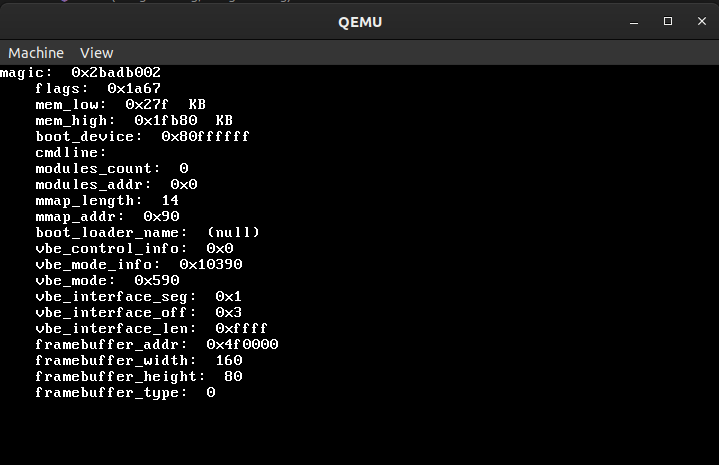
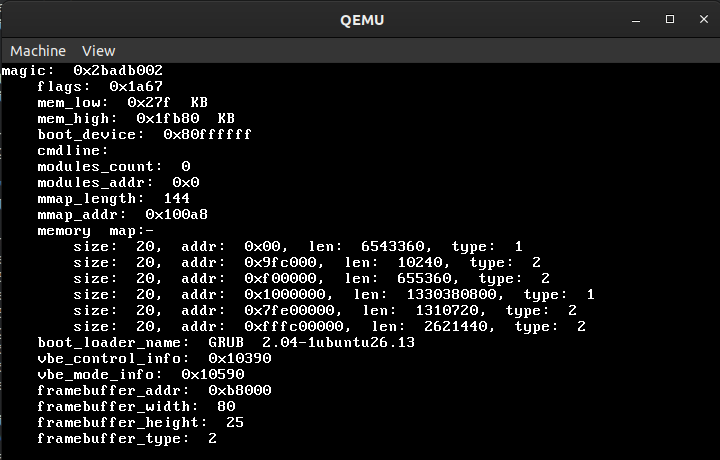
modified multiboot structure and added printing memory map

diff --git a/NEW KERNEL/Memory Info/src/kernel.c b/NEW KERNEL/Memory Info/src/kernel.c
@@ -5,6 +5,8 @@
 
 void kmain(unsigned long magic, unsigned long addr) {
     MULTIBOOT_INFO *mboot_info;
+    uint32 i;
+
     console_init(COLOR_WHITE, COLOR_BLACK);
     printf("magic: 0x%x\n", magic);
     if(magic == MULTIBOOT_BOOTLOADER_MAGIC) {
@@ -18,17 +20,25 @@ void kmain(unsigned long magic, unsigned long addr) {
         printf("  modules_addr: 0x%x\n", mboot_info->modules_addr);
         printf("  mmap_length: %d\n", mboot_info->mmap_length);
         printf("  mmap_addr: 0x%x\n", mboot_info->mmap_addr);
+        printf("  memory map:-\n");
+        for (i = 0; i < mboot_info->mmap_length; i += sizeof(MULTIBOOT_MEMORY_MAP)) {
+            MULTIBOOT_MEMORY_MAP *mmap = (MULTIBOOT_MEMORY_MAP *)(mboot_info->mmap_addr + i);
+            printf("    size: %d, addr: 0x%x%x, len: %d%d, type: %d\n", 
+                    mmap->size, mmap->addr_low, mmap->addr_high, mmap->len_low, mmap->len_high, mmap->type);
+
+            if (mmap->type == MULTIBOOT_MEMORY_AVAILABLE) {
+                /**** Available memory  ****/
+            }
+        }
         printf("  boot_loader_name: %s\n", (char *)mboot_info->boot_loader_name);
         printf("  vbe_control_info: 0x%x\n", mboot_info->vbe_control_info);
         printf("  vbe_mode_info: 0x%x\n", mboot_info->vbe_mode_info);
-        printf("  vbe_mode: 0x%x\n", mboot_info->vbe_mode);
-        printf("  vbe_interface_seg: 0x%x\n", mboot_info->vbe_interface_seg);
-        printf("  vbe_interface_off: 0x%x\n", mboot_info->vbe_interface_off);
-        printf("  vbe_interface_len: 0x%x\n", mboot_info->vbe_interface_len);
         printf("  framebuffer_addr: 0x%x\n", mboot_info->framebuffer_addr);
         printf("  framebuffer_width: %d\n", mboot_info->framebuffer_width);
         printf("  framebuffer_height: %d\n", mboot_info->framebuffer_height);
         printf("  framebuffer_type: %d\n", mboot_info->framebuffer_type);
+    } else {
+        printf("invalid multiboot magic number\n");
     }
 }
 

diff --git a/NEW KERNEL/Memory Info/include/multiboot.h b/NEW KERNEL/Memory Info/include/multiboot.h
@@ -3,9 +3,36 @@
 
 #include "types.h"
 
-#define MULTIBOOT_MAGIC_HEADER 0x1BADB002
+#define MULTIBOOT_MAGIC_HEADER      0x1BADB002
 #define MULTIBOOT_BOOTLOADER_MAGIC  0x2BADB002
 
+/* The Multiboot header. */
+typedef struct {
+    uint32 magic;
+    uint32 flags;
+    uint32 checksum;
+    uint32 header_addr;
+    uint32 load_addr;
+    uint32 load_end_addr;
+    uint32 bss_end_addr;
+    uint32 entry_addr;
+} MULTIBOOT_HEADER;
+
+/* The symbol table for a.out. */
+typedef struct {
+    uint32 tabsize;
+    uint32 strsize;
+    uint32 addr;
+    uint32 reserved;
+} AOUT_SYMBOL_TABLE;
+
+/* The section header table for ELF. */
+typedef struct {
+    uint32 num;
+    uint32 size;
+    uint32 addr;
+    uint32 shndx;
+} ELF_SECTION_HEADER_TABLE;
 
 typedef struct {
     /* required, defined in entry.asm */
@@ -26,9 +53,10 @@ typedef struct {
     uint32 modules_addr;
 
     /* symbol table info, present if flags[4] & flags[5] is set(SYMT in entry.asm) */
-    uint32 symt0;
-    uint32 symt1;
-    uint32 symt2;
+    union {
+        AOUT_SYMBOL_TABLE aout_sym;
+        ELF_SECTION_HEADER_TABLE elf_sec;
+    } u;
 
     /* memory mapping, present if flags[6] is set(MEMMAP in entry.asm) */
     uint32 mmap_length;
@@ -64,5 +92,23 @@ typedef struct {
     uint8 framebuffer_type;  // indexed = 0, RGB = 1, EGA = 2
 
 } MULTIBOOT_INFO;
+
+
+typedef enum {
+    MULTIBOOT_MEMORY_AVAILABLE = 1,
+    MULTIBOOT_MEMORY_RESERVED,
+    MULTIBOOT_MEMORY_ACPI_RECLAIMABLE,
+    MULTIBOOT_MEMORY_NVS,
+    MULTIBOOT_MEMORY_BADRAM
+} MULTIBOOT_MEMORY_TYPE;
+
+typedef struct {
+    uint32 size;
+    uint32 addr_low;
+    uint32 addr_high;
+    uint32 len_low;
+    uint32 len_high;
+    MULTIBOOT_MEMORY_TYPE type;
+} MULTIBOOT_MEMORY_MAP;
 
 #endif
